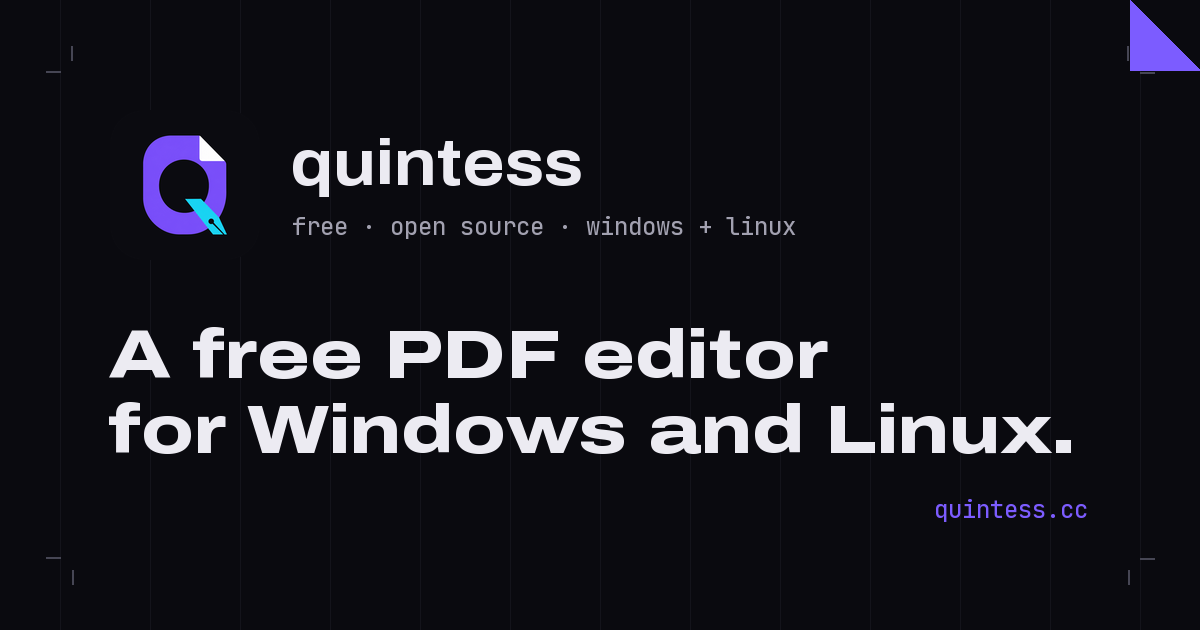
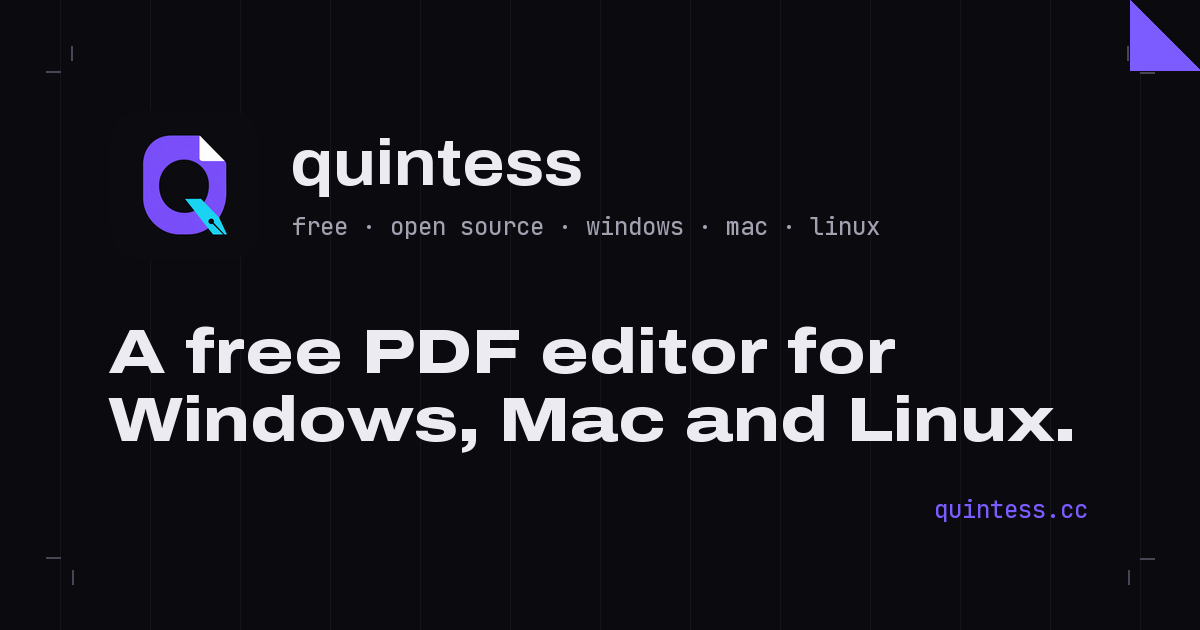
Site for 0.4.0: one download button for the visitor's system, every package below, Mac in the copy
The Worker reports the Mac, Windows on ARM, AppImage and Flatpak packages,
and the x64 installer no longer matches the ARM64 one.

diff --git a/site/public/index.html b/site/public/index.html
@@ -3,8 +3,8 @@
 <head>
 <meta charset="utf-8">
 <meta name="viewport" content="width=device-width, initial-scale=1">
-<title>Quintess: faster than Acrobat, and free · PDF editor for Windows and Linux</title>
-<meta name="description" content="Quintess opens long PDFs in a fraction of Acrobat's time, with a quarter of the memory. Free and open source for Windows and Linux, with no account or subscription.">
+<title>Quintess: faster than Acrobat, and free · PDF editor for Windows, Mac and Linux</title>
+<meta name="description" content="Quintess opens long PDFs in a fraction of Acrobat's time, with a quarter of the memory. Free and open source for Windows, Mac and Linux, with no account or subscription.">
 <link rel="canonical" href="https://quintess.cc/">
 <meta name="theme-color" content="#0a0a0f">
 <meta name="color-scheme" content="dark">
@@ -14,12 +14,12 @@
 <meta property="og:type" content="website">
 <meta property="og:site_name" content="Quintess">
 <meta property="og:url" content="https://quintess.cc/">
-<meta property="og:title" content="Quintess: faster than Acrobat, and free · PDF editor for Windows and Linux">
-<meta property="og:description" content="Quintess opens long PDFs in a fraction of Acrobat's time, with a quarter of the memory. Free and open source for Windows and Linux, with no account or subscription.">
+<meta property="og:title" content="Quintess: faster than Acrobat, and free · PDF editor for Windows, Mac and Linux">
+<meta property="og:description" content="Quintess opens long PDFs in a fraction of Acrobat's time, with a quarter of the memory. Free and open source for Windows, Mac and Linux, with no account or subscription.">
 <meta property="og:image" content="https://quintess.cc/assets/img/og.png">
 <meta property="og:image:width" content="1200">
 <meta property="og:image:height" content="630">
-<meta property="og:image:alt" content="The Quintess logo beside the line: A free PDF editor for Windows and Linux.">
+<meta property="og:image:alt" content="The Quintess logo beside the line: A free PDF editor for Windows, Mac and Linux.">
 <meta name="twitter:card" content="summary_large_image">
 <link rel="preload" href="/assets/fonts/archivo-wdth.woff2" as="font" type="font/woff2" crossorigin>
 <link rel="stylesheet" href="/assets/site.css?v=7fed46d052">
@@ -31,14 +31,14 @@
       "@type": "SoftwareApplication",
       "@id": "https://quintess.cc/#app",
       "name": "Quintess",
-      "description": "Quintess opens long PDFs in a fraction of Acrobat's time, with a quarter of the memory. Free and open source for Windows and Linux, with no account or subscription.",
+      "description": "Quintess opens long PDFs in a fraction of Acrobat's time, with a quarter of the memory. Free and open source for Windows, Mac and Linux, with no account or subscription.",
       "applicationCategory": "BusinessApplication",
       "applicationSubCategory": "PDF editor",
-      "operatingSystem": "Windows 10, Windows 11, Linux",
-      "softwareVersion": "0.3.0",
+      "operatingSystem": "Windows 10, Windows 11, macOS, Linux",
+      "softwareVersion": "0.4.0",
       "url": "https://quintess.cc/",
-      "downloadUrl": "https://github.com/bhanright/quintess/releases/tag/v0.3.0",
-      "installUrl": "https://github.com/bhanright/quintess/releases/tag/v0.3.0",
+      "downloadUrl": "https://github.com/bhanright/quintess/releases/tag/v0.4.0",
+      "installUrl": "https://github.com/bhanright/quintess/releases/tag/v0.4.0",
       "softwareHelp": "https://quintess.cc/guide/",
       "license": "https://github.com/bhanright/quintess/blob/main/LICENSE-MIT",
       "isAccessibleForFree": true,
@@ -89,11 +89,11 @@
 <!-- HERO -->
 <section class="hero" aria-labelledby="hero-title">
   <div class="hero-head">
-    <p class="kicker"><span class="dot"></span><span>v<span data-version>0.3.0</span> · free · open source · Windows + Linux</span></p>
+    <p class="kicker"><span class="dot"></span><span>v<span data-version>0.4.0</span> · free · open source · Windows · Mac · Linux</span></p>
     <h1 id="hero-title" class="display">Faster than Acrobat.<br>Free.</h1>
   </div>
   <div class="hero-lead">
-    <p class="lede">Quintess opens a 624-page PDF in 0.8 seconds; Adobe Acrobat takes 9.2. It uses a quarter of the memory, and it's free and open source for Windows and Linux, with no account or subscription.</p>
+    <p class="lede">Quintess opens a 624-page PDF in 0.8 seconds; Adobe Acrobat takes 9.2. It uses a quarter of the memory, and it's free and open source for Windows, Mac and Linux, with no account or subscription.</p>
     <ul class="figures">
       <li><b class="figure-num">0.8 s <i>vs</i> 9.2 s</b><span class="figure-label mono">to open a 624-page document</span></li>
       <li><b class="figure-num">144 MB <i>vs</i> 591 MB</b><span class="figure-label mono">memory once it's open</span></li>
@@ -102,39 +102,24 @@
     <p class="figures-link"><a class="text-link" href="/benchmarks/">How we measured →</a></p>
   </div>
   <div class="hero-copy">
-    <ul class="dl-list" aria-label="Download Quintess">
-      <li class="dl" data-asset="windows">
-        <a class="button" href="https://github.com/bhanright/quintess/releases/download/v0.3.0/Quintess-0.3.0-setup.exe" data-download="windows" data-track="download">
-          <svg viewBox="0 0 24 24" aria-hidden="true"><path d="M12 3v12m0 0-5-5m5 5 5-5M4 20h16"/></svg>
-          Download for Windows
-        </a>
-        <p class="dl-meta"><span class="dl-note">Windows 10/11 · x86_64 · installs for your user account</span><span class="fine mono keep-case" data-asset-line>Quintess-0.3.0-setup.exe</span></p>
-      </li>
-      <li class="dl" data-asset="deb">
-        <a class="button" href="https://github.com/bhanright/quintess/releases/download/v0.3.0/quintess_0.3.0_amd64.deb" data-download="deb" data-track="download">
-          <svg viewBox="0 0 24 24" aria-hidden="true"><path d="M12 3v12m0 0-5-5m5 5 5-5M4 20h16"/></svg>
-          Download for Linux (.deb)
-        </a>
-        <p class="dl-meta"><span class="dl-note">Linux · x86_64 · .deb for Ubuntu/Debian</span><span class="fine mono keep-case" data-asset-line>quintess_0.3.0_amd64.deb</span></p>
-      </li>
-      <li class="dl" data-asset="tarball">
-        <a class="button" href="https://github.com/bhanright/quintess/releases/download/v0.3.0/quintess-0.3.0-linux-x86_64.tar.gz" data-download="tarball" data-track="download">
-          <svg viewBox="0 0 24 24" aria-hidden="true"><path d="M12 3v12m0 0-5-5m5 5 5-5M4 20h16"/></svg>
-          Download for Linux (.tar.gz)
-        </a>
-        <p class="dl-meta"><span class="dl-note">Linux · x86_64 · .tar.gz with an install script</span><span class="fine mono keep-case" data-asset-line>quintess-0.3.0-linux-x86_64.tar.gz</span></p>
-      </li>
-    </ul>
-    <p class="dl-choose">Choose .deb for Ubuntu or Debian. For other Linux distributions, use the tarball and check the installation requirements.</p>
+    <div class="dl-primary dl" data-asset="windows" data-primary-download>
+      <a class="button" href="https://github.com/bhanright/quintess/releases/download/v0.4.0/Quintess-0.4.0-setup.exe" data-download="windows" data-track="download">
+        <svg viewBox="0 0 24 24" aria-hidden="true"><path d="M12 3v12m0 0-5-5m5 5 5-5M4 20h16"/></svg>
+        <span data-primary-label>Download for Windows</span>
+      </a>
+      <p class="dl-meta"><span class="dl-note" data-primary-note>Windows 10/11 · x86_64 · installs for your user account</span><span class="fine mono keep-case" data-asset-line>Quintess-0.4.0-setup.exe</span></p>
+    </div>
+    <p class="dl-others">Also for <a href="https://github.com/bhanright/quintess/releases/download/v0.4.0/Quintess-0.4.0-arm64-setup.exe" data-asset="windows_arm64" data-download="windows_arm64" data-track="download">Windows on ARM</a> · <a href="https://github.com/bhanright/quintess/releases/download/v0.4.0/Quintess-0.4.0-macos.dmg" data-asset="macos" data-download="macos" data-track="download">Mac</a> · <a href="https://github.com/bhanright/quintess/releases/download/v0.4.0/quintess_0.4.0_amd64.deb" data-asset="deb" data-download="deb" data-track="download">Linux (.deb)</a> · <a href="https://github.com/bhanright/quintess/releases/download/v0.4.0/Quintess-0.4.0-x86_64.AppImage" data-asset="appimage" data-download="appimage" data-track="download">Linux (AppImage)</a> · <a href="https://github.com/bhanright/quintess/releases/download/v0.4.0/Quintess-0.4.0-x86_64.flatpak" data-asset="flatpak" data-download="flatpak" data-track="download">Linux (Flatpak)</a> · <a href="https://github.com/bhanright/quintess/releases/download/v0.4.0/quintess-0.4.0-linux-x86_64.tar.gz" data-asset="tarball" data-download="tarball" data-track="download">Linux (.tar.gz)</a>. <a href="#download">All downloads and checksums</a></p>
     <div class="cta">
       <a class="button button-ghost" href="https://github.com/bhanright/quintess" data-track="github">View the source</a>
     </div>
     <ul class="hero-links">
-      <li><a href="#install-notes">Windows installation notes</a></li>
-      <li><a href="/guide/#installing-on-linux">Linux installation instructions</a></li>
+      <li><a href="/guide/#installing-on-windows">Installing on Windows</a></li>
+      <li><a href="/guide/#installing-on-macos">Installing on a Mac</a></li>
+      <li><a href="/guide/#installing-on-linux">Installing on Linux</a></li>
       <li><a href="https://github.com/bhanright/quintess/releases" data-track="github">Release notes</a></li>
     </ul>
-    <p class="smartscreen">The Windows installer isn't code-signed yet, so Windows may show a SmartScreen warning. Read the <a href="#install-notes">Windows installation notes</a>.</p>
+    <p class="smartscreen">Quintess isn't code-signed yet. Windows may show a SmartScreen warning, and a Mac asks you to choose Open Anyway in System Settings › Privacy &amp; Security the first time. <a href="#install-notes">Why, and what to do</a>.</p>
   </div>
   </div>
 
@@ -243,12 +228,12 @@
       <p>For many people, yes: it edits text and pictures, redacts, fills and creates forms, signs, runs OCR and converts documents. It doesn't promise every Acrobat feature or identical results. Try it on copies of your documents and check the results before you switch.</p>
     </details>
     <details id="install-notes">
-      <summary>Windows says "Windows protected your PC". Is that normal?</summary>
-      <p>Yes, for now. The installer isn't code-signed yet, so SmartScreen warns about it. Download it only from the Quintess release page on GitHub, then compare its SHA-256 with the checksum published beside it (in PowerShell: <code>Get-FileHash .\Quintess-*-setup.exe</code>). A match shows the file is exactly the one released. If you decide to go ahead, choose <b>More info</b>, then <b>Run anyway</b>.</p>
+      <summary>Windows or my Mac warns me about Quintess. Is that normal?</summary>
+      <p>Yes, for now: Quintess isn't code-signed yet. Download it only from the Quintess release page on GitHub, then compare its SHA-256 with the checksum published beside it (in PowerShell: <code>Get-FileHash .\Quintess-*-setup.exe</code>; on a Mac: <code>shasum -a 256 Quintess-*.dmg</code>). A match shows the file is exactly the one released. On Windows, if you decide to go ahead, choose <b>More info</b>, then <b>Run anyway</b>. On a Mac, open Quintess once, then choose <b>Open Anyway</b> in System Settings › Privacy &amp; Security.</p>
     </details>
     <details>
-      <summary>Does Quintess work on Linux or Mac?</summary>
-      <p>Linux is supported since version 0.2.0, with x86_64 downloads: a .deb package for Ubuntu/Debian and a .tar.gz archive with an install script. See the <a href="/guide/#installing-on-linux">Linux installation instructions</a> for requirements and setup. There is no Mac release.</p>
+      <summary>Does Quintess work on Mac or Linux?</summary>
+      <p>Yes, both. Version 0.4.0 runs on Macs with Apple silicon or Intel (one app on a disk image) and on Linux, as a .deb for Ubuntu and Debian, an AppImage, a Flatpak or a tarball with an install script. See <a href="/guide/#installing">Installing</a> in the guide.</p>
     </details>
     <details>
       <summary>Does Quintess send my documents anywhere?</summary>
@@ -262,8 +247,8 @@
     "mainEntity": [
       {"@type": "Question", "name": "Is Quintess really free?", "acceptedAnswer": {"@type": "Answer", "text": "Yes. It's open source under the MIT or Apache-2.0 license. There's no paid version, no account and no subscription."}},
       {"@type": "Question", "name": "Can Quintess replace Acrobat?", "acceptedAnswer": {"@type": "Answer", "text": "For many people, yes: it edits text and pictures, redacts, fills and creates forms, signs, runs OCR and converts documents. It doesn't promise every Acrobat feature or identical results. Try it on copies of your documents and check the results before you switch."}},
-      {"@type": "Question", "name": "Windows says \"Windows protected your PC\". Is that normal?", "acceptedAnswer": {"@type": "Answer", "text": "Yes, for now. The installer isn't code-signed yet, so SmartScreen warns about it. Download it only from the Quintess release page on GitHub, then compare its SHA-256 with the checksum published beside it (in PowerShell: Get-FileHash .\\Quintess-*-setup.exe). A match shows the file is exactly the one released. If you decide to go ahead, choose More info, then Run anyway."}},
-      {"@type": "Question", "name": "Does Quintess work on Linux or Mac?", "acceptedAnswer": {"@type": "Answer", "text": "Linux is supported since version 0.2.0, with x86_64 downloads: a .deb package for Ubuntu/Debian and a .tar.gz archive with an install script. See the Linux installation instructions for requirements and setup. There is no Mac release."}},
+      {"@type": "Question", "name": "Windows or my Mac warns me about Quintess. Is that normal?", "acceptedAnswer": {"@type": "Answer", "text": "Yes, for now: Quintess isn't code-signed yet. Download it only from the Quintess release page on GitHub, then compare its SHA-256 with the checksum published beside it (in PowerShell: Get-FileHash .\\Quintess-*-setup.exe; on a Mac: shasum -a 256 Quintess-*.dmg). A match shows the file is exactly the one released. On Windows, if you decide to go ahead, choose More info, then Run anyway. On a Mac, open Quintess once, then choose Open Anyway in System Settings › Privacy & Security."}},
+      {"@type": "Question", "name": "Does Quintess work on Mac or Linux?", "acceptedAnswer": {"@type": "Answer", "text": "Yes, both. Version 0.4.0 runs on Macs with Apple silicon or Intel (one app on a disk image) and on Linux, as a .deb for Ubuntu and Debian, an AppImage, a Flatpak or a tarball with an install script. See Installing in the guide."}},
       {"@type": "Question", "name": "Does Quintess send my documents anywhere?", "acceptedAnswer": {"@type": "Answer", "text": "No. Your PDF files aren’t uploaded. Editing, OCR and redaction run on your computer. Network access is used for update checks you enable, dictionaries you download, web pages you convert, links you open, and timestamp or certificate-status requests you choose. Optional trusted timestamps send a fingerprint of the signature to a timestamp server. No telemetry."}}
     ]
   }
@@ -275,40 +260,88 @@
 <section class="download" id="download" aria-labelledby="download-title">
   <h2 id="download-title" class="giant" aria-label="Get Quintess"><span>quintess</span><i class="giant-caret" aria-hidden="true"></i></h2>
   <div class="download-card proof">
-    <div class="download-main">
+    <div class="download-main download-grid">
       <div class="pkg" data-asset="windows">
-        <a class="button button-big" href="https://github.com/bhanright/quintess/releases/download/v0.3.0/Quintess-0.3.0-setup.exe" data-download="windows" data-track="download">
+        <a class="button button-big" href="https://github.com/bhanright/quintess/releases/download/v0.4.0/Quintess-0.4.0-setup.exe" data-download="windows" data-track="download">
           <svg viewBox="0 0 24 24" aria-hidden="true"><path d="M12 3v12m0 0-5-5m5 5 5-5M4 20h16"/></svg>
-          Download for Windows
+          Windows
         </a>
+        <p class="pkg-note">Windows 10/11 · x86_64 · installs for your user account</p>
         <dl class="asset mono">
-          <div><dt>file</dt><dd data-asset-name>Quintess-0.3.0-setup.exe</dd></div>
+          <div><dt>file</dt><dd data-asset-name>Quintess-0.4.0-setup.exe</dd></div>
           <div><dt>size</dt><dd data-asset-size>see release</dd></div>
-          <div><dt>released</dt><dd data-asset-date>2026</dd></div>
+          <div class="sha"><dt>SHA-256</dt><dd data-asset-sha>published with the release</dd></div>
+        </dl>
+      </div>
+      <div class="pkg" data-asset="windows_arm64">
+        <a class="button button-big" href="https://github.com/bhanright/quintess/releases/download/v0.4.0/Quintess-0.4.0-arm64-setup.exe" data-download="windows_arm64" data-track="download">
+          <svg viewBox="0 0 24 24" aria-hidden="true"><path d="M12 3v12m0 0-5-5m5 5 5-5M4 20h16"/></svg>
+          Windows on ARM
+        </a>
+        <p class="pkg-note">Windows 11 on ARM · native ARM64</p>
+        <dl class="asset mono">
+          <div><dt>file</dt><dd data-asset-name>Quintess-0.4.0-arm64-setup.exe</dd></div>
+          <div><dt>size</dt><dd data-asset-size>see release</dd></div>
+          <div class="sha"><dt>SHA-256</dt><dd data-asset-sha>published with the release</dd></div>
+        </dl>
+      </div>
+      <div class="pkg" data-asset="macos">
+        <a class="button button-big" href="https://github.com/bhanright/quintess/releases/download/v0.4.0/Quintess-0.4.0-macos.dmg" data-download="macos" data-track="download">
+          <svg viewBox="0 0 24 24" aria-hidden="true"><path d="M12 3v12m0 0-5-5m5 5 5-5M4 20h16"/></svg>
+          Mac
+        </a>
+        <p class="pkg-note">macOS 11 or later · Apple silicon and Intel</p>
+        <dl class="asset mono">
+          <div><dt>file</dt><dd data-asset-name>Quintess-0.4.0-macos.dmg</dd></div>
+          <div><dt>size</dt><dd data-asset-size>see release</dd></div>
           <div class="sha"><dt>SHA-256</dt><dd data-asset-sha>published with the release</dd></div>
         </dl>
       </div>
       <div class="pkg" data-asset="deb">
-        <a class="button button-big" href="https://github.com/bhanright/quintess/releases/download/v0.3.0/quintess_0.3.0_amd64.deb" data-download="deb" data-track="download">
+        <a class="button button-big" href="https://github.com/bhanright/quintess/releases/download/v0.4.0/quintess_0.4.0_amd64.deb" data-download="deb" data-track="download">
           <svg viewBox="0 0 24 24" aria-hidden="true"><path d="M12 3v12m0 0-5-5m5 5 5-5M4 20h16"/></svg>
-          Download for Linux (.deb)
+          Linux (.deb)
         </a>
+        <p class="pkg-note">Ubuntu and Debian · x86_64</p>
         <dl class="asset mono">
-          <div><dt>file</dt><dd data-asset-name>quintess_0.3.0_amd64.deb</dd></div>
+          <div><dt>file</dt><dd data-asset-name>quintess_0.4.0_amd64.deb</dd></div>
           <div><dt>size</dt><dd data-asset-size>see release</dd></div>
-          <div><dt>released</dt><dd data-asset-date>2026</dd></div>
+          <div class="sha"><dt>SHA-256</dt><dd data-asset-sha>published with the release</dd></div>
+        </dl>
+      </div>
+      <div class="pkg" data-asset="appimage">
+        <a class="button button-big" href="https://github.com/bhanright/quintess/releases/download/v0.4.0/Quintess-0.4.0-x86_64.AppImage" data-download="appimage" data-track="download">
+          <svg viewBox="0 0 24 24" aria-hidden="true"><path d="M12 3v12m0 0-5-5m5 5 5-5M4 20h16"/></svg>
+          Linux (AppImage)
+        </a>
+        <p class="pkg-note">most distributions · runs without installing</p>
+        <dl class="asset mono">
+          <div><dt>file</dt><dd data-asset-name>Quintess-0.4.0-x86_64.AppImage</dd></div>
+          <div><dt>size</dt><dd data-asset-size>see release</dd></div>
+          <div class="sha"><dt>SHA-256</dt><dd data-asset-sha>published with the release</dd></div>
+        </dl>
+      </div>
+      <div class="pkg" data-asset="flatpak">
+        <a class="button button-big" href="https://github.com/bhanright/quintess/releases/download/v0.4.0/Quintess-0.4.0-x86_64.flatpak" data-download="flatpak" data-track="download">
+          <svg viewBox="0 0 24 24" aria-hidden="true"><path d="M12 3v12m0 0-5-5m5 5 5-5M4 20h16"/></svg>
+          Linux (Flatpak)
+        </a>
+        <p class="pkg-note">sandboxed · needs the Flathub runtime</p>
+        <dl class="asset mono">
+          <div><dt>file</dt><dd data-asset-name>Quintess-0.4.0-x86_64.flatpak</dd></div>
+          <div><dt>size</dt><dd data-asset-size>see release</dd></div>
           <div class="sha"><dt>SHA-256</dt><dd data-asset-sha>published with the release</dd></div>
         </dl>
       </div>
       <div class="pkg" data-asset="tarball">
-        <a class="button button-big" href="https://github.com/bhanright/quintess/releases/download/v0.3.0/quintess-0.3.0-linux-x86_64.tar.gz" data-download="tarball" data-track="download">
+        <a class="button button-big" href="https://github.com/bhanright/quintess/releases/download/v0.4.0/quintess-0.4.0-linux-x86_64.tar.gz" data-download="tarball" data-track="download">
           <svg viewBox="0 0 24 24" aria-hidden="true"><path d="M12 3v12m0 0-5-5m5 5 5-5M4 20h16"/></svg>
-          Download for Linux (.tar.gz)
+          Linux (.tar.gz)
         </a>
+        <p class="pkg-note">any distribution · with an install script</p>
         <dl class="asset mono">
-          <div><dt>file</dt><dd data-asset-name>quintess-0.3.0-linux-x86_64.tar.gz</dd></div>
+          <div><dt>file</dt><dd data-asset-name>quintess-0.4.0-linux-x86_64.tar.gz</dd></div>
           <div><dt>size</dt><dd data-asset-size>see release</dd></div>
-          <div><dt>released</dt><dd data-asset-date>2026</dd></div>
           <div class="sha"><dt>SHA-256</dt><dd data-asset-sha>published with the release</dd></div>
         </dl>
       </div>
@@ -319,8 +352,8 @@
       <li><a href="https://github.com/bhanright/quintess/blob/main/docs/BUILDING.md" data-track="github">build it yourself</a></li>
       <li><a href="https://github.com/bhanright/quintess/issues" data-track="github">report a problem</a></li>
     </ul>
-    <p class="dl-choose download-note">Choose .deb for Ubuntu or Debian. For other Linux distributions, use the tarball and check the installation requirements in the <a href="/guide/#installing-on-linux">Linux installation instructions</a>. Compare the SHA-256 above with the file you downloaded.</p>
-    <p class="smartscreen download-note">The Windows installer isn't code-signed yet, so Windows may show a SmartScreen warning. Read the <a href="#install-notes">Windows installation notes</a>.</p>
+    <p class="dl-choose download-note">On Linux, choose the .deb for Ubuntu or Debian, the AppImage to run without installing, the Flatpak for a sandboxed install, or the tarball for anything else; see <a href="/guide/#installing-on-linux">Installing on Linux</a>. Compare the SHA-256 above with the file you downloaded.</p>
+    <p class="smartscreen download-note">Quintess isn't code-signed yet. Windows may show a SmartScreen warning, and a Mac asks you to choose Open Anyway in System Settings › Privacy &amp; Security the first time. <a href="#install-notes">Why, and what to do</a>.</p>
   </div>
 </section>
 

diff --git a/site/src/worker.js b/site/src/worker.js
@@ -141,12 +141,16 @@ async function latestRelease(context) {
   const answer = await fetchGitHub("/releases/latest");
   if (!answer.ok) return Response.json({ error: "no release yet" }, { status: 404, headers: { "Cache-Control": "public, max-age=60" } });
   const release = await answer.json();
-  // The three packages of a release, each with the checksum published beside it.
+  // Every package of a release, each with the checksum published beside it.
   const files = release.assets || [];
   const pick = (matches) => files.find((asset) => matches(asset.name.toLowerCase()));
   const packages = {
-    windows: pick((name) => name.endsWith("-setup.exe")),
+    windows: pick((name) => name.endsWith("-setup.exe") && !name.includes("arm64")),
+    windows_arm64: pick((name) => name.endsWith("-arm64-setup.exe")),
+    macos: pick((name) => name.endsWith(".dmg")),
     deb: pick((name) => name.endsWith(".deb")),
+    appimage: pick((name) => name.endsWith(".appimage")),
+    flatpak: pick((name) => name.endsWith(".flatpak")),
     tarball: pick((name) => name.endsWith(".tar.gz")),
   };
   const describe = async (asset) => {
@@ -161,12 +165,14 @@ async function latestRelease(context) {
     }
     return { name: asset.name, url: asset.browser_download_url, size: asset.size, downloads: asset.download_count, sha256 };
   };
-  const [windows, deb, tarball] = await Promise.all([describe(packages.windows), describe(packages.deb), describe(packages.tarball)]);
+  const described = await Promise.all(Object.values(packages).map(describe));
+  const assets = Object.fromEntries(Object.keys(packages).map((key, index) => [key, described[index]]));
+  const windows = assets.windows;
   const body = {
     version: String(release.tag_name || "").replace(/^v/i, ""),
     published: release.published_at,
     page: release.html_url,
-    assets: { windows, deb, tarball },
+    assets,
     // The Windows installer on its own, as before, for anything that still reads these.
     installer: windows ? { name: windows.name, url: windows.url, size: windows.size, downloads: windows.downloads } : null,
     sha256: windows ? windows.sha256 : null,
@@ -210,14 +216,14 @@ async function stats(request, env, context) {
     query("SELECT SUM(kind = 'view') AS views, COUNT(DISTINCT CASE WHEN kind = 'view' THEN visitor || day END) AS visitors, SUM(kind = 'download') AS downloads, SUM(kind = 'github') AS github FROM hits WHERE day >= date('now', ?)"),
   ]);
 
-  // GitHub's own count of package downloads (.exe, .deb, .tar.gz), for every release.
+  // GitHub's own count of package downloads, for every release.
   let releases = [];
   try {
     const answer = await fetchGitHub("/releases?per_page=20");
     if (answer.ok) {
       releases = (await answer.json()).map((release) => ({
         tag: release.tag_name,
-        downloads: (release.assets || []).filter((asset) => /\.(exe|deb|tar\.gz)$/i.test(asset.name)).reduce((sum, asset) => sum + asset.download_count, 0),
+        downloads: (release.assets || []).filter((asset) => /\.(exe|dmg|deb|appimage|flatpak|tar\.gz)$/i.test(asset.name)).reduce((sum, asset) => sum + asset.download_count, 0),
       }));
     }
   } catch {}

diff --git a/site/public/assets/site.js b/site/public/assets/site.js
@@ -74,6 +74,33 @@
   // Each download link and details block is marked with its package kind
   // (windows, deb or tarball); the page carries working links for 0.2.0 if
   // this request fails.
+  // The hero's button offers the package for the visitor's system.
+  const primary = $("[data-primary-download]");
+  if (primary) {
+    const choices = {
+      windows: ["Download for Windows", "Windows 10/11 · x86_64 · installs for your user account"],
+      windows_arm64: ["Download for Windows on ARM", "Windows 11 on ARM · native ARM64"],
+      macos: ["Download for Mac", "macOS 11 or later · Apple silicon and Intel"],
+      appimage: ["Download for Linux", "AppImage · most distributions · runs without installing"],
+    };
+    const choose = (key) => {
+      if (!choices[key]) return;
+      primary.dataset.asset = key;
+      primary.querySelector("[data-download]").dataset.download = key;
+      $("[data-primary-label]", primary).textContent = choices[key][0];
+      $("[data-primary-note]", primary).textContent = choices[key][1];
+      const other = document.querySelector(`.dl-others [data-asset="${key}"]`);
+      if (other) primary.querySelector("a").href = other.href;
+    };
+    const agent = navigator.userAgent;
+    if (/Macintosh|Mac OS X/.test(agent) && !/iPhone|iPad/.test(agent)) choose("macos");
+    else if (/Linux/.test(agent) && !/Android/.test(agent)) choose("appimage");
+    // Chromium browsers can say whether Windows runs on ARM.
+    else if (/Windows/.test(agent) && navigator.userAgentData?.getHighEntropyValues) {
+      navigator.userAgentData.getHighEntropyValues(["architecture"]).then((values) => { if (values.architecture === "arm") choose("windows_arm64"); }).catch(() => {});
+    }
+  }
+
   fetch("/api/release").then((response) => (response.ok ? response.json() : null)).then((release) => {
     if (!release || !release.assets) return;
     $$("[data-version]").forEach((element) => (element.textContent = release.version));

diff --git a/site/public/assets/site.css b/site/public/assets/site.css
@@ -397,3 +397,17 @@ main { position: relative; z-index: 2; }
 .table-scroll thead th { color: var(--faint); font-weight: 600; background: var(--ink-2); }
 .table-scroll tbody tr:last-child td { border-bottom: 0; }
 .bench .doc-topic h2 a { color: inherit; text-decoration: none; }
+
+/* Downloads: one button for the visitor's system, the rest as links; the
+   bottom section lists every package. */
+.dl-primary .button { font-size: 18px; padding: 15px 22px; }
+.dl-others { margin: 14px 0 0; color: var(--muted); line-height: 1.7; max-width: 52ch; }
+.dl-others a { color: var(--text); }
+.download-grid { display: grid; grid-template-columns: repeat(auto-fit, minmax(260px, 1fr)); gap: 22px; }
+.download-grid .button-big { width: 100%; justify-content: flex-start; }
+.pkg-note { margin: 8px 0 6px; color: var(--muted); font-size: 14px; }
+/* In the grid, cards sit side by side: no divider above each one, and the
+   button, note and details stack inside the card. */
+.download-grid .pkg { display: block; }
+.download-grid .pkg + .pkg { padding-top: 0; border-top: 0; }
+.download-grid .pkg .button { width: 100%; }

diff --git a/site/tools/make_images.py b/site/tools/make_images.py
@@ -66,9 +66,9 @@ def social_preview(icon: Image.Image) -> Image.Image:
     tile = icon.resize((150, 150), Image.LANCZOS)
     image.paste(tile, (110, 110), tile)
     draw.text((290, 128), "quintess", font=font(700, 112, 64), fill=TEXT)
-    draw.text((292, 210), "free · open source · windows + linux", font=mono(24), fill=MUTED)
+    draw.text((292, 210), "free · open source · windows · mac · linux", font=mono(24), fill=MUTED)
     # The largest headline whose longer line fits inside the crop marks.
-    lines = ("A free PDF editor", "for Windows and Linux.")
+    lines = ("A free PDF editor for", "Windows, Mac and Linux.")
     size = 84
     headline = font(800, 125, size)
     while size > 40 and max(draw.textlength(line, font=headline) for line in lines) > width - 108 - 120:
